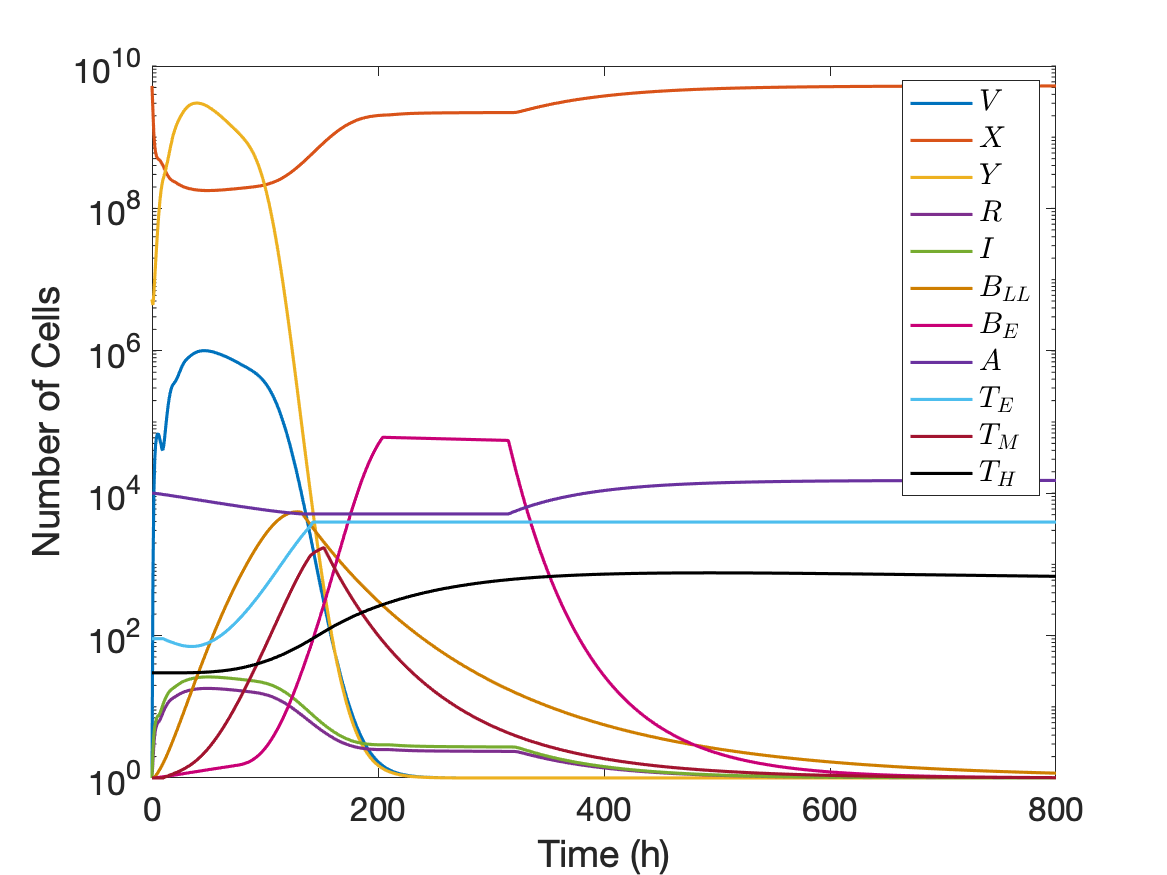
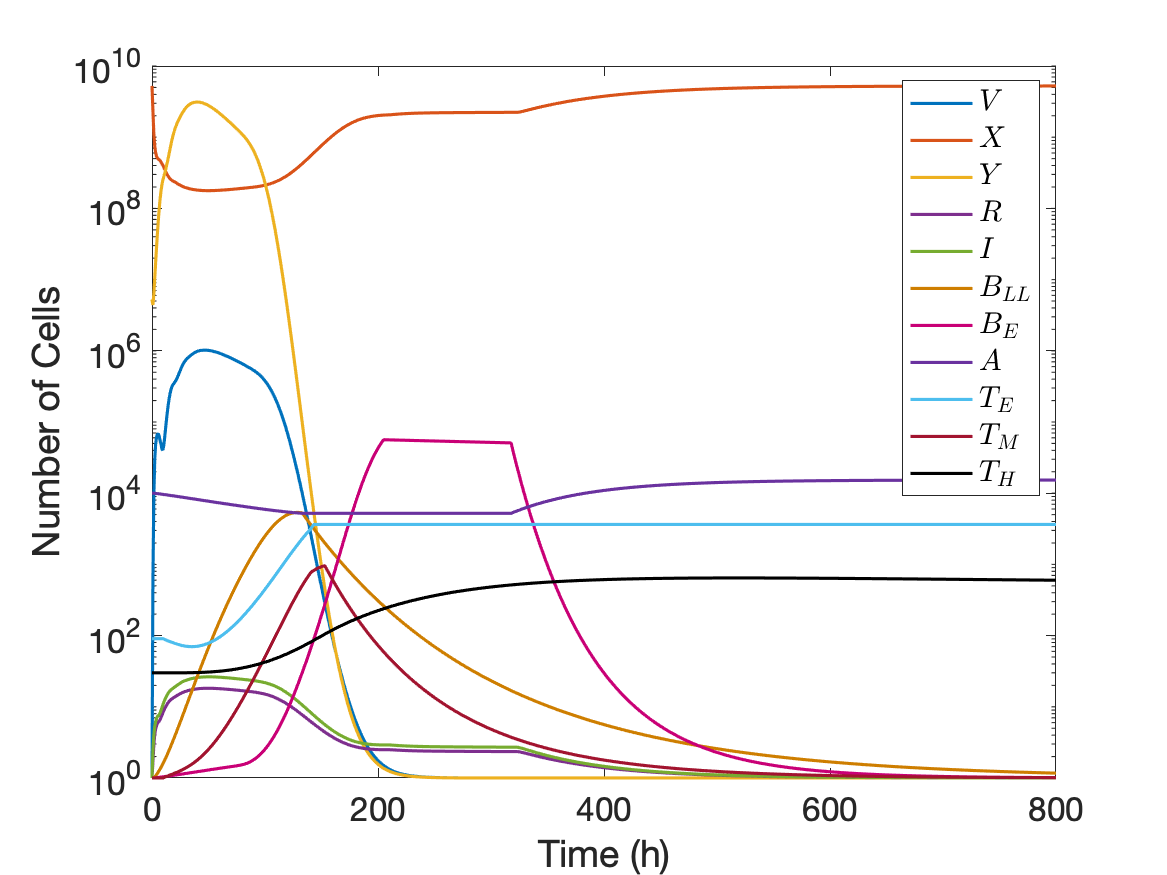
update histories

diff --git a/history.m b/history.m
@@ -1,0 +1,43 @@
+% simulations for various initial conditions
+clearvars;
+params = struct();
+options = ddeset('AbsTol', 1e-9, 'RelTol', 1e-9);
+settings = struct();
+
+full_sol1 = full_model("default_params_full.mat", params, @ddefullhist1, options, settings, 'init1_model');
+full_sol2 = full_model("default_params_full.mat", params, @ddefullhist2, options, settings, 'init2_model');
+
+settings.manual = false;
+full_sol3 = full_model("default_params_full.mat", params, @ddefullhist3, options, settings, 'initv_model');
+
+settings.manual = false;
+full_sol4 = full_model("default_params_full.mat", params, @ddefullhistjump, options, settings, 'initv_model');
+
+%% HISTORY FUNCTIONS
+function s = ddefullhist(t)
+    % constant history function for full model.
+    s = [0; log10(5.25*10^9); log10(5250); 0; 0; 0; 0; 4; log10(90.5); 0; log10(30);];
+end
+
+function s = ddefullhist1(t)
+    % constant history function for full model.
+    s = [0; log10(5.25*10^9); log10(5.25); 0; 0; 0; 0; 4; log10(90.5); 0; log10(30);];
+end
+
+function s = ddefullhist2(t)
+    % constant history function for full model.
+    s = [0; log10(5.25*10^9); log10(5.25*10^6); 0; 0; 0; 0; 4; log10(90.5); 0; log10(30);];
+end
+
+function s = ddefullhist3(t)
+    % constant history function for full model.
+    s = [log10(7.5*10^2); log10(5.25*10^9); 0; 0; 0; 0; 0; 4; log10(90.5); 0; log10(30);];
+end
+
+function s = ddefullhistjump(t)
+    if t==0
+        s = [0; log10(5.25*10^9); log10(5250); 0; 0; 0; 0; 4; log10(90.5); 0; log10(30);];
+    else
+        s = [0; log10(5.25*10^9); 0; 0; 0; 0; 0; 4; log10(90.5); 0; log10(30);];
+    end
+end
